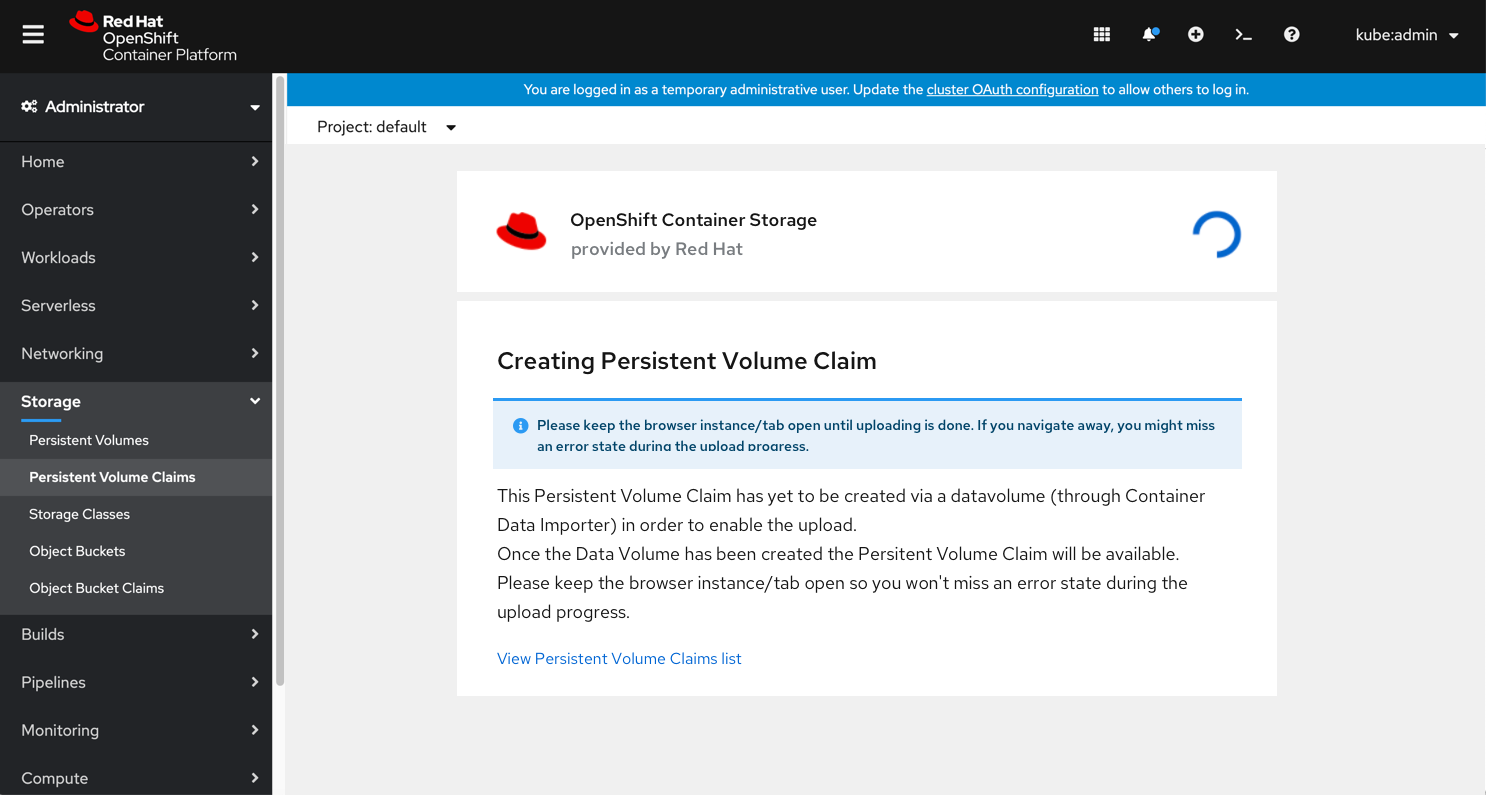
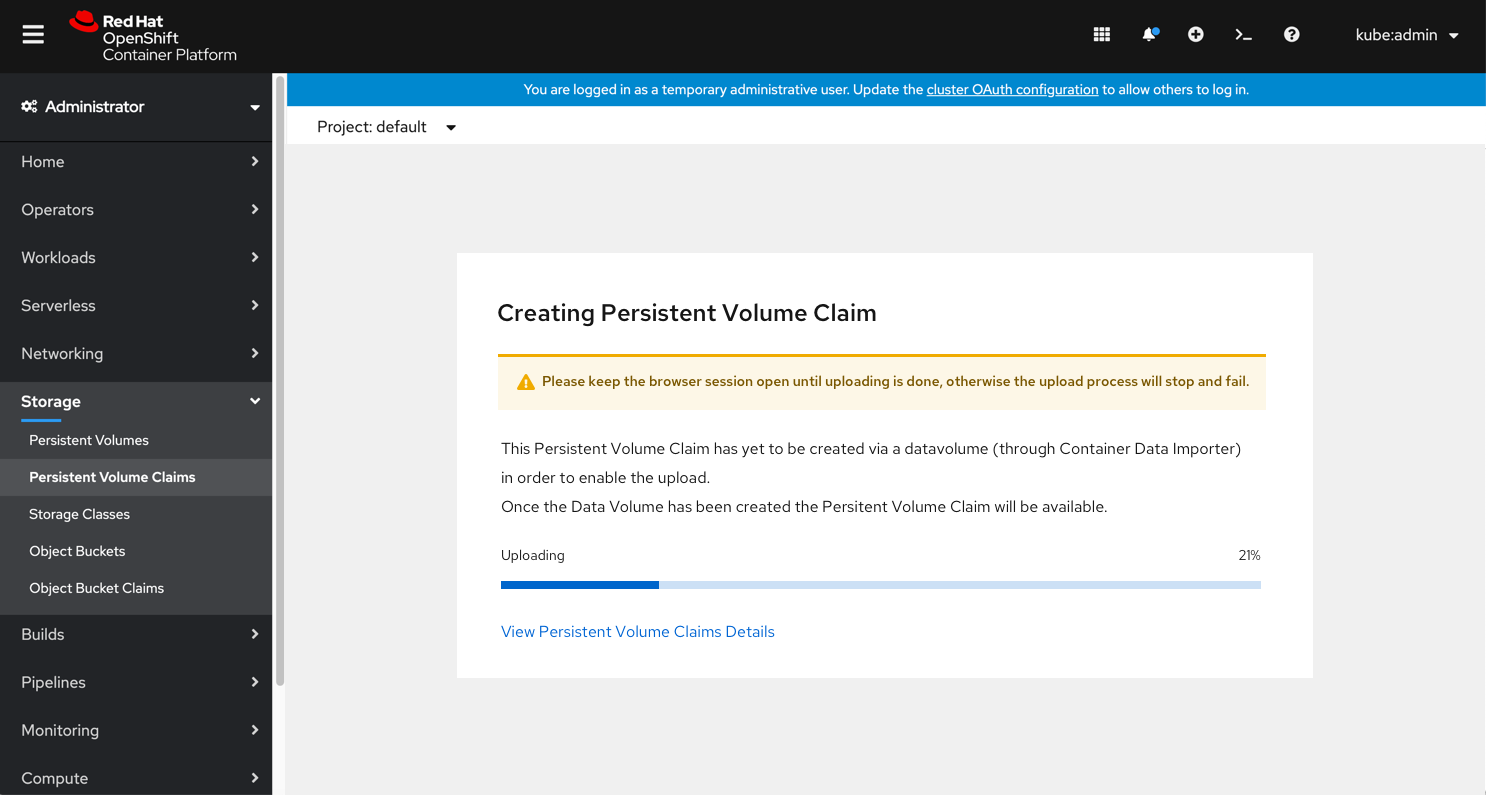
updates

Changed region(s): [[0.3405, 0.3623, 0.8668, 0.8453], [0.3096, 0.2717, 0.5572, 0.3321], [0.8048, 0.2415, 0.8358, 0.3321]]

diff --git a/designs/virtualization/4.6/Upload-image-prior-to-creating-VM/Upload Image prior to creating vm.md b/designs/virtualization/4.6/Upload-image-prior-to-creating-VM/Upload Image prior to creating vm.md
@@ -20,24 +20,28 @@ User chooses an image to upload and fills in the PVC details: Name, size, storag
 ![browse to upload](img/Upload-data-to-pvc-1.png)
 
 After the user clicks ‘Upload’ they will get to the new installing screen where a spinner symbplyzes the PVC is currently being created.
-The status conditions reason and phase are shown and update in real time on the installing screen.
-A link is included that allows the user to view the PVCs list.
-We chose to use the spinner over the progress bar because we can't really offer progress and there aren't any significant steps to highlight.
-We'll show a notification with a request to keep the browser instance/tab open so they won't miss an error state during the upload progress.
+
+The status is shown and updates in real time on the upload screen.
+We'll include a warning notification with a request to keep the browser instance open until uploading is done, otherwise the upload process will stop and fail. We'll provide a link to view the PVCs Details page.
 
 ![In between states and upload in progress explanation](img/in-between-state2.png)
 
-Once the progress is successfully finished they will be directed to the PVC Details page.
+![PVC details page](img/Details-page-in-uploading.png)
 
-![PVC Details page](img/pvc-details-page.png)
-
-The List view will show an ‘uploading’ status and the popover will include an explanation (The PVC has been created and the file upload is in progress) and an option to cancel the upload process.
+The List view will show an ‘uploading’ status. A popover will include an explanation (The PVC has been created and the file upload is in progress) and an option to cancel the upload process.
 
 ![List view with popover](img/PVC-ListViewW_popover.png)
 
-If the CDI fails to create the PVC we'll show an inline error on the creation page.
-Until we have toast notifications we don't want to encourage the user to leave the PVC upload flow until something has been successfully created, so we’ll advise the user that in case they navigate away, they might miss the error, and provide a link to the DataVolume for further info.
+Once the upload is successfully done the user has the option to view the PVC Details page or view the PVC's list.
+
+![PVC upload successfully done](img/Upload-success.png)
+
+![PVC Details page](img/pvc-details-page.png)
+
+If the CDI fails to create the PVC, we'll show an error on the upload page and users will be able to go back to the form and fix the error.
+
+![PVC upload error](img/Upload-error.png)
+
+List view when upload fails
 
 ![List view when upload failed](img/List-error.png)
-
-![error modal](img/Error-modal.png)
